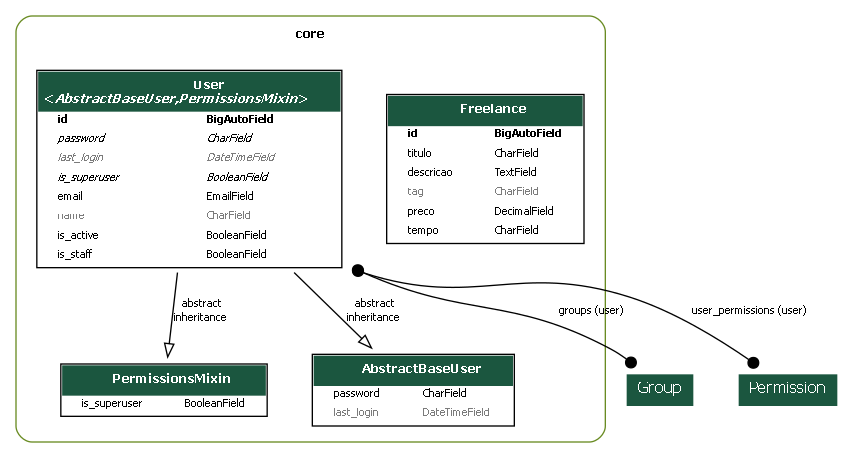
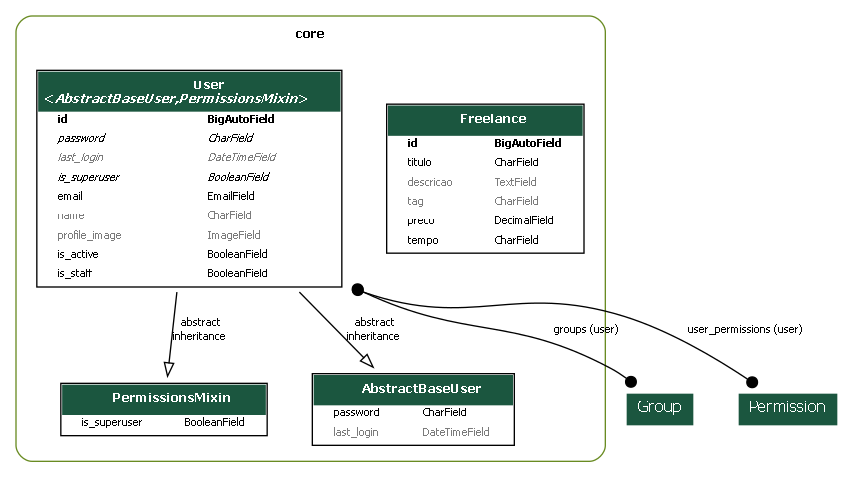
FEAT; upload de imagens

diff --git a/core/migrations/0008_user_profile_image_alter_freelance_descricao.py b/core/migrations/0008_user_profile_image_alter_freelance_descricao.py
@@ -1,0 +1,23 @@
+# Generated by Django 5.2.12 on 2026-06-13 20:57
+
+from django.db import migrations, models
+
+
+class Migration(migrations.Migration):
+
+    dependencies = [
+        ('core', '0007_alter_freelance_tag'),
+    ]
+
+    operations = [
+        migrations.AddField(
+            model_name='user',
+            name='profile_image',
+            field=models.ImageField(blank=True, null=True, upload_to='users/'),
+        ),
+        migrations.AlterField(
+            model_name='freelance',
+            name='descricao',
+            field=models.TextField(blank=True, max_length=200, null=True),
+        ),
+    ]

diff --git a/app/settings.py b/app/settings.py
@@ -16,7 +16,7 @@ BASE_DIR = Path(__file__).resolve().parent.parent
 
 # Segurança e configuração básica
 SECRET_KEY = os.getenv('SECRET_KEY', 'django-insecure')
-DEBUG = os.getenv('DEBUG', 'False')
+DEBUG = os.getenv('DEBUG', 'False') == 'True'
 ALLOWED_HOSTS = ['*']
 CSRF_TRUSTED_ORIGINS = [
     'http://localhost:3000',
@@ -32,8 +32,8 @@ INSTALLED_APPS = [
     'django.contrib.sessions',
     'django.contrib.messages',
     'django.contrib.staticfiles',
-    'cloudinary_storage',
-    'cloudinary',
+    #'cloudinary_storage',
+    #'cloudinary',
     'corsheaders',
     'django_extensions',
     'django_filters',
@@ -109,14 +109,14 @@ USE_TZ = True
 STATIC_URL = 'static/'
 
 # Configurações de arquivos de mídia (App Uploader)
-MEDIA_ENDPOINT = '/media/'
-MEDIA_ROOT = os.path.join(BASE_DIR, 'media/')
+MEDIA_URL = '/media/'
+MEDIA_ROOT = os.path.join(BASE_DIR, 'media')
 FILE_UPLOAD_PERMISSIONS = 0o640
 
 # Configurações específicas para desenvolvimento, migração e produção
 if MODE == 'DEVELOPMENT':
     MY_IP = os.getenv('MY_IP', '127.0.0.1')
-    MEDIA_URL = 'http://127.0.0.1:8000/media/'
+    MEDIA_URL = '/media/'
 else:
     MEDIA_URL = '/media/'
     CLOUDINARY_URL = os.getenv('CLOUDINARY_URL')
@@ -160,3 +160,4 @@ SIMPLE_JWT = {
 
 # Exibe as configurações principais para verificação
 print(f'{MODE = } \n{MEDIA_URL = } \n{DATABASES = }')
+

diff --git a/app/urls.py b/app/urls.py
@@ -1,5 +1,8 @@
 from django.contrib import admin
 from django.urls import include, path
+from django.conf import settings
+from django.conf.urls.static import static
+
 from drf_spectacular.views import (
     SpectacularAPIView,
     SpectacularRedocView,
@@ -42,4 +45,4 @@ urlpatterns = [
     # API
     path('api/', include(router.urls)),
 
-]
+] + static(settings.MEDIA_URL, document_root=settings.MEDIA_ROOT)

diff --git a/core/serializers/user.py b/core/serializers/user.py
@@ -1,13 +1,14 @@
 from rest_framework import serializers
 from rest_framework.serializers import ModelSerializer
 
+
 from core.models import User
 
 
 class UserSerializer(ModelSerializer):
     class Meta:
         model = User
-        fields = ['id', 'email', 'name', 'is_active', 'is_staff', 'is_superuser', 'last_login', 'groups']
+        fields = ['id', 'email', 'name', 'is_active', 'is_staff', 'is_superuser', 'last_login', 'groups', 'profile_image']
         depth = 1
 
 
@@ -16,7 +17,7 @@ class UserRegistrationSerializer(ModelSerializer):
 
     class Meta:
         model = User
-        fields = ['id', 'email', 'name', 'password']
+        fields = ['id', 'email', 'name', 'password', 'profile_image']
 
     def create(self, validated_data):
         return User.objects.create_user(**validated_data)

diff --git a/core/views/user.py b/core/views/user.py
@@ -5,6 +5,7 @@ from rest_framework.generics import CreateAPIView
 from rest_framework.permissions import AllowAny, IsAuthenticated
 from rest_framework.response import Response
 from rest_framework.viewsets import ModelViewSet
+from rest_framework.parsers import MultiPartParser, FormParser
 
 from core.models import User
 from core.serializers import UserRegistrationSerializer, UserSerializer
@@ -24,8 +25,9 @@ class UserViewSet(ModelViewSet):
     def me(self, request):
         """ Retorna os dados do usuário autenticado."""
         user = request.user
-        serializer = UserSerializer(user)
+        serializer = self.get_serializer(request.user)
         return Response(serializer.data, status=status.HTTP_200_OK)
+
 
 
 class UserRegistrationView(CreateAPIView):
@@ -34,3 +36,4 @@ class UserRegistrationView(CreateAPIView):
     queryset = User.objects.all()
     serializer_class = UserRegistrationSerializer
     permission_classes = [AllowAny]
+    parser_classes = [MultiPartParser, FormParser]

diff --git a/core/admin.py b/core/admin.py
@@ -16,7 +16,7 @@ class UserAdmin(BaseUserAdmin):
     list_display = ['email', 'name']
     fieldsets = (
         (None, {'fields': ('email', 'password')}),
-        (_('Personal Info'), {'fields': ('name',)}),
+        (_('Personal Info'), {'fields': ('name', 'profile_image')}),
         (
             _('Permissions'),
             {

diff --git a/core/models/user.py b/core/models/user.py
@@ -42,6 +42,7 @@ class User(AbstractBaseUser, PermissionsMixin):
 
     email = models.EmailField(max_length=255, unique=True, verbose_name=_('email'), help_text=_('Email'))
     name = models.CharField(max_length=255, blank=True, null=True, verbose_name=_('name'), help_text=_('Username'))
+    profile_image = models.ImageField(upload_to='users/', null=True, blank=True)
     is_active = models.BooleanField(
         default=True, verbose_name=_('Usuário está ativo'), help_text=_('Indica que este usuário está ativo.')
     )